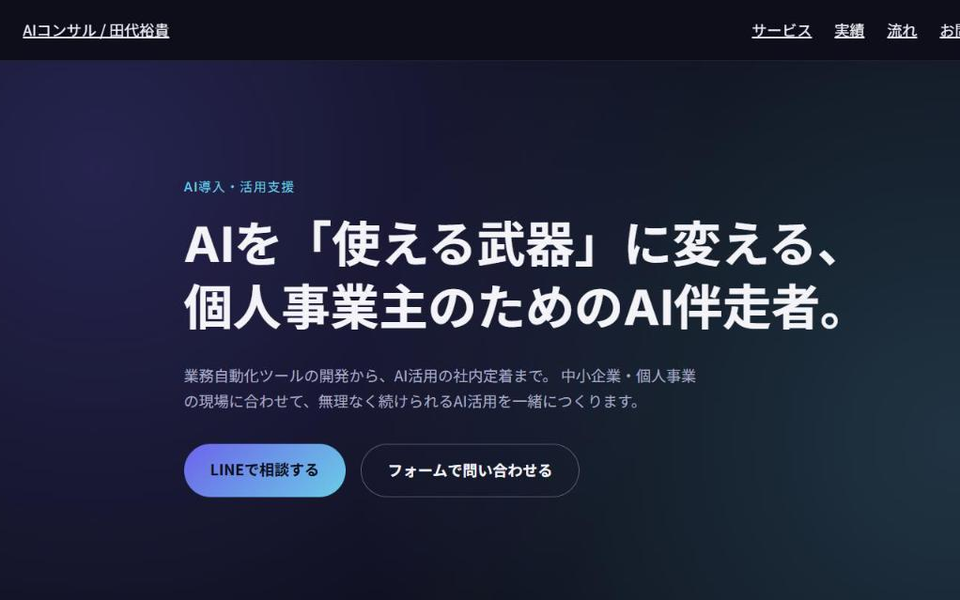
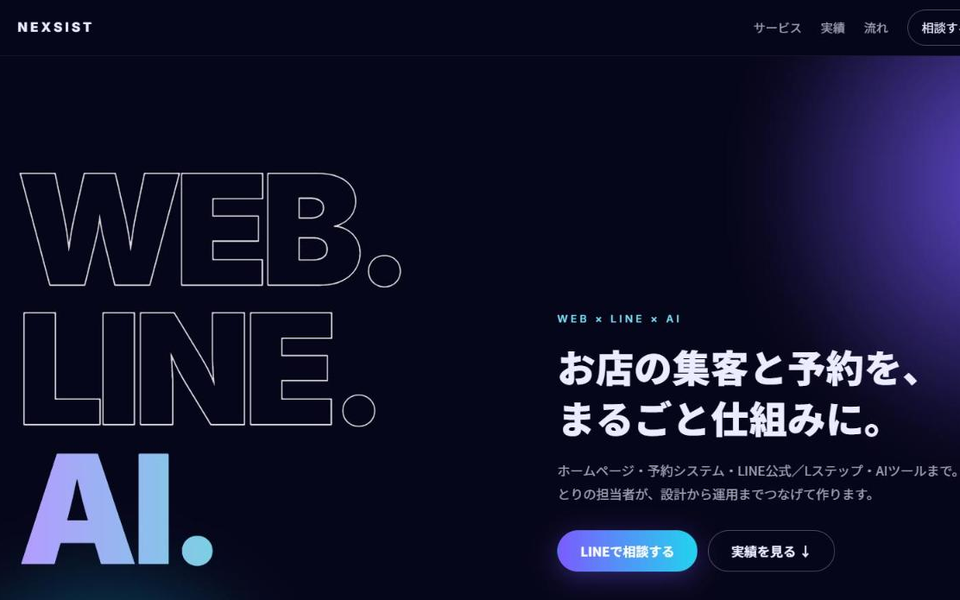
ポートフォリオ: Nexsist 版LPの画面に差し替え、確認記録を2026-11-14に更新 (#23)

diff --git a/portfolio/index.html b/portfolio/index.html
@@ -289,11 +289,11 @@ const SITE = {
         "benefit": "サービスと相談先を一ページに集約",
         "background": "屋号Nexsistのサービス内容を、相談前に把握してもらうためのページです。お店の困りごと、4つのサービス、琥珀サロンなどの実績、相談の流れ、相談窓口を一続きにまとめています。",
         "usage": "Nexsistの相談窓口として公開中です。フォームの送信内容はGoogleスプレッドシートに記録され、メールで通知されます。",
-        "verified": "公開ページで、サービス・制作実績・導入の流れの各セクションと、LINE・フォームの相談導線が表示されることを確認しました。",
+        "verified": "公開ページで、WEB. LINE. AI. のトップ画面、4つのサービス・実績・相談の流れの各セクション、LINE・フォームの相談導線が表示されることを確認しました。",
         "limits": "問い合わせ件数や成約率は計測・掲載していません。",
         "imageCaption": "Nexsistのトップ画面。LINEとフォームの2つの相談導線を配置。",
         "summary": "画面で確認：サービス・実績・流れ・相談先を一ページに集約。",
-        "verifiedDate": "2026-10-11"
+        "verifiedDate": "2026-11-14"
       },
       {
         "tag": "Web制作",
